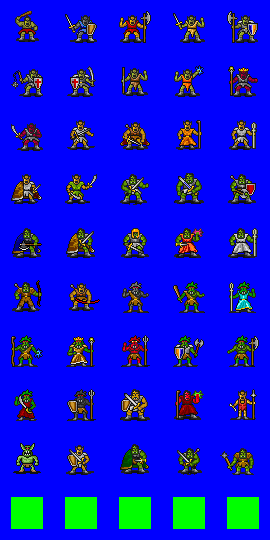
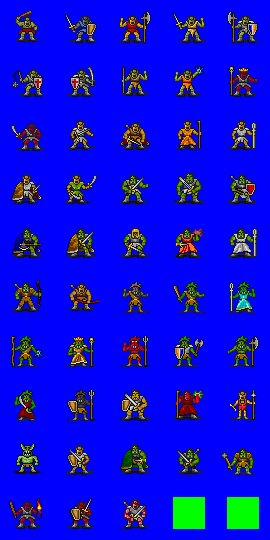
Still working on dungeons

Changed region(s): [[0.4148, 0.9185, 0.563, 0.9778], [0.237, 0.9185, 0.3852, 0.9778], [0.0296, 0.9185, 0.1778, 0.9778]]

diff --git a/narrator/dungeonlevel.py b/narrator/dungeonlevel.py
@@ -27,7 +27,6 @@ class BasicCave( Plot ):
             biome=context.HAB_CAVE, setting=self.setting,
             desctags=(context.MAP_DUNGEON,context.MAP_GODOWN) )
         mymapgen = randmaps.CaveScene( myscene )
-#        mymapgen = randmaps.WalledForestScene( myscene )
         self.register_scene( nart, myscene, mymapgen, ident="LOCALE" )
 
         for t in range( random.randint(4+min(self.rank//3,6),8+min(self.rank//2,6)) ):
@@ -37,7 +36,7 @@ class BasicCave( Plot ):
 
 class WaterCave( BasicCave ):
     # First of the elemental caves.
-    LABEL = "DUNGEON_LEVEL"
+    LABEL = "zDUNGEON_LEVEL"
     TAGS = set( (context.HAB_CAVE,context.DES_WATER) )
     def custom_init( self, nart ):
         myscene = maps.Scene( min( 70 + self.rank * 5, 129 ), min( 70 + self.rank * 5, 129 ), 
@@ -53,9 +52,10 @@ class WaterCave( BasicCave ):
         return True
 
 class WaterBridgeCave( BasicCave ):
-    # First of the elemental caves.
-    LABEL = "DUNGEON_LEVEL"
+    LABEL = "zDUNGEON_LEVEL"
     TAGS = set( (context.HAB_CAVE,context.DES_WATER) )
+    UNIQUE = True
+    MIN_RANK = 2
     def custom_init( self, nart ):
         myscene = maps.Scene( 120, 120, 
             sprites={maps.SPRITE_WALL: "terrain_wall_cave.png", maps.SPRITE_GROUND: "terrain_ground_under.png", maps.SPRITE_FLOOR: "terrain_floor_gravel.png"},
@@ -65,7 +65,7 @@ class WaterBridgeCave( BasicCave ):
         self.register_scene( nart, myscene, mymapgen, ident="LOCALE" )
 
         self.add_sub_plot( nart, "DIVIDED_ISLAND_COMPLICATION" )
-        for t in range( random.randint(4+min(self.rank//3,6),8+min(self.rank//2,6)) ):
+        for t in range( random.randint(7,12) ):
             self.add_sub_plot( nart, "ENCOUNTER" )
 
         return True
@@ -85,6 +85,26 @@ class FireCave( BasicCave ):
             self.add_sub_plot( nart, "ENCOUNTER" )
 
         return True
+
+class FireBridgeCave( BasicCave ):
+    LABEL = "DUNGEON_LEVEL"
+    TAGS = set( (context.HAB_CAVE,context.DES_FIRE) )
+    #UNIQUE = True
+    MIN_RANK = 2
+    def custom_init( self, nart ):
+        myscene = maps.Scene( 120, 120, 
+            sprites={maps.SPRITE_WALL: "terrain_wall_cave.png", maps.SPRITE_GROUND: "terrain_ground_cthonic.png", maps.SPRITE_FLOOR: "terrain_floor_gravel.png"},
+            biome=context.HAB_CAVE, setting=self.setting,
+            desctags=(context.MAP_DUNGEON,context.MAP_GODOWN,context.DES_FIRE) )
+        mymapgen = randmaps.DividedIslandScene( myscene )
+        self.register_scene( nart, myscene, mymapgen, ident="LOCALE" )
+
+        self.add_sub_plot( nart, "DIVIDED_ISLAND_COMPLICATION" )
+        for t in range( random.randint(7,12) ):
+            self.add_sub_plot( nart, "ENCOUNTER" )
+
+        return True
+
 
 class AirCave( BasicCave ):
     LABEL = "zDUNGEON_LEVEL"
@@ -109,7 +129,7 @@ class EarthCave( BasicCave ):
         myscene = maps.Scene( min( 70 + self.rank * 5, 129 ), min( 70 + self.rank * 5, 129 ), 
             sprites={maps.SPRITE_WALL: "terrain_wall_cave.png", maps.SPRITE_GROUND: "terrain_ground_under.png", maps.SPRITE_FLOOR: "terrain_floor_gravel.png"},
             biome=context.HAB_CAVE, setting=self.setting,
-            desctags=(context.MAP_DUNGEON,context.MAP_GODOWN,context.DES_FIRE) )
+            desctags=(context.MAP_DUNGEON,context.MAP_GODOWN,context.DES_EARTH) )
         mymapgen = randmaps.CaveScene( myscene, decorate = randmaps.decor.RockyDec() )
         self.register_scene( nart, myscene, mymapgen, ident="LOCALE" )
 
@@ -118,15 +138,34 @@ class EarthCave( BasicCave ):
 
         return True
 
+class EarthMushroomCave( BasicCave ):
+    LABEL = "zDUNGEON_LEVEL"
+    TAGS = set( (context.HAB_CAVE,context.DES_EARTH) )
+    UNIQUE = True
+    MIN_RANK = 2
+    def custom_init( self, nart ):
+        myscene = maps.Scene( min( 90 + self.rank * 3, 129 ), min( 90 + self.rank * 3, 129 ), 
+            sprites={maps.SPRITE_WALL: "terrain_wall_cave.png", maps.SPRITE_GROUND: "terrain_ground_under.png", maps.SPRITE_FLOOR: "terrain_floor_gravel.png"},
+            biome=context.HAB_CAVE, setting=self.setting,
+            desctags=(context.MAP_DUNGEON,context.MAP_GODOWN,context.DES_EARTH,context.MTY_PLANT) )
+        mymapgen = randmaps.WalledForestScene( myscene, decorate = randmaps.decor.RockyDec() )
+        self.register_scene( nart, myscene, mymapgen, ident="LOCALE" )
+
+        for t in range( random.randint(4+min(self.rank//3,6),8+min(self.rank//2,6)) ):
+            self.add_sub_plot( nart, "ENCOUNTER" )
+
+        return True
+
+
 class GoblinMines( BasicCave ):
     LABEL = "zDUNGEON_LEVEL"
     TAGS = set( (context.HAB_CAVE,context.GEN_GOBLIN) )
     def custom_init( self, nart ):
         myscene = maps.Scene( min( 70 + self.rank * 5, 129 ), min( 70 + self.rank * 5, 129 ), 
-            sprites={maps.SPRITE_WALL: "terrain_wall_mine.png", maps.SPRITE_GROUND: "terrain_ground_canyon.png", maps.SPRITE_FLOOR: "terrain_floor_stone.png"},
+            sprites={maps.SPRITE_WALL: "terrain_wall_cave.png", maps.SPRITE_GROUND: "terrain_ground_under.png", maps.SPRITE_FLOOR: "terrain_floor_gravel.png"},
             biome=context.HAB_CAVE, setting=self.setting,
             desctags=(context.MAP_DUNGEON,context.MAP_GODOWN,context.GEN_GOBLIN) )
-        mymapgen = randmaps.CaveScene( myscene )
+        mymapgen = randmaps.CaveScene( myscene, decorate = randmaps.decor.GoblinHomeDec(fill_factor=200) )
         self.register_scene( nart, myscene, mymapgen, ident="LOCALE" )
 
         for t in range( random.randint(4+min(self.rank//3,6),8+min(self.rank//2,6)) ):

diff --git a/narrator/dungeonbits.py b/narrator/dungeonbits.py
@@ -19,8 +19,9 @@ import randmaps
 # a locked door, or wotnot.
 #
 
-class DIC_LockedDoor( Plot ):
+class DIC_Barricade( Plot ):
     LABEL = "DIVIDED_ISLAND_COMPLICATION"
+    UNIQUE = True
     active = True
     scope = "LOCALE"
     @classmethod
@@ -31,12 +32,14 @@ class DIC_LockedDoor( Plot ):
         scene = self.elements.get("LOCALE")
         mygen = nart.get_map_generator( scene )
 
+        # Bridge room
         bridge_room = randmaps.rooms.BottleneckRoom()
         self._bridge_door = waypoints.PuzzleDoor()
         bridge_room.special_c[ "door" ] = self._bridge_door
         mygen.special_c[ "bridge" ] = bridge_room
         self.register_element( "_BRIDGE_ROOM", bridge_room, dident="LOCALE" )
 
+        # Lever room
         lever_room = randmaps.rooms.SharpRoom( tags = (context.ENTRANCE,) )
         lever_room.contents.append( teams.Team(default_reaction=-999, rank=self.rank, 
           strength=150, habitat=scene.get_encounter_request() ) )
@@ -45,12 +48,55 @@ class DIC_LockedDoor( Plot ):
         lever = waypoints.PuzzleSwitch()
         self.register_element( "_LEVER", lever, dident="_LEVER_ROOM" )
 
+        # Post-bridge encounter
+        room = mygen.DEFAULT_ROOM()
+        mygen.special_c[ "after_bridge" ] = room
+        myhabitat=scene.get_encounter_request()
+        myhabitat[ context.MTY_HUMANOID ] = context.PRESENT
+        myhabitat[ context.MTY_FIGHTER ] = context.MAYBE
+        room.contents.append( teams.Team(default_reaction=-999, rank=self.rank, 
+          strength=150, habitat=myhabitat ) )
+        self.register_element( "_ROOM", room, dident="LOCALE" )
+
         return True
 
     def _LEVER_USE( self, explo ):
         self._bridge_door.activate( explo )
         self.active = False
 
+class DIC_YouShallNotPass( Plot ):
+    LABEL = "DIVIDED_ISLAND_COMPLICATION"
+    UNIQUE = True
+    active = True
+    scope = "LOCALE"
+    @classmethod
+    def matches( self, pstate ):
+        """Requires the LOCALE to exist."""
+        return pstate.elements.get("LOCALE")
+    def custom_init( self, nart ):
+        scene = self.elements.get("LOCALE")
+        mygen = nart.get_map_generator( scene )
+
+        # Bridge room
+        bridge_room = randmaps.rooms.FuzzyRoom()
+        mygen.special_c[ "bridge" ] = bridge_room
+        self.register_element( "_BRIDGE_ROOM", bridge_room, dident="LOCALE" )
+
+        myhabitat=scene.get_encounter_request()
+        myhabitat[ context.MTY_HUMANOID ] = context.PRESENT
+        myhabitat[ context.MTY_FIGHTER ] = context.MAYBE
+        team = teams.Team(default_reaction=-999, rank=self.rank, strength=120, habitat=myhabitat, respawn=False )
+
+        myhabitat[(context.MTY_HUMANOID,context.MTY_LEADER)] = True
+        myhabitat[context.MTY_LEADER] = context.MAYBE
+        btype = monsters.choose_monster_type(self.rank,self.rank+2,myhabitat)
+        boss = monsters.generate_boss( btype, self.rank+2 )
+        boss.team = team
+
+        bridge_room.contents.append( team )
+        bridge_room.contents.append( boss )
+
+        return True
 
 
 #  **************************
@@ -68,8 +114,11 @@ class GenericArmory( Plot ):
         scene = self.elements.get("LOCALE")
         mygen = nart.get_map_generator( scene )
         room = mygen.DEFAULT_ROOM()
+        myhabitat=scene.get_encounter_request()
+        myhabitat[ context.MTY_HUMANOID ] = context.PRESENT
+        myhabitat[ context.MTY_FIGHTER ] = context.MAYBE
         room.contents.append( teams.Team(default_reaction=-999, rank=self.rank+1, 
-          strength=120, habitat=scene.get_encounter_request() ) )
+          strength=120, habitat=myhabitat ) )
         room.contents.append( maps.WALL_WEAPON_RACK )
         room.contents.append( maps.WALL_WEAPON_RACK )
         for t in range( random.randint(2,4) ):

diff --git a/monsters/goblins.py b/monsters/goblins.py
@@ -10,6 +10,7 @@ import animobs
 import targetarea
 import aibrain
 import random
+import enchantments
 
 #  *******************
 #  ***   GOBLINS   ***
@@ -87,6 +88,34 @@ class GoblinShaman( base.Monster ):
         self.levels.append( base.Spellcaster( 3, self ) )
         if random.randint(1,10) == 1:
             self.contents.append( items.scrolls.Rank1Scroll() )
+
+class GoblinPyromaniac( base.Monster ):
+    name = "Goblin Pyromaniac"
+    statline = { stats.STRENGTH: 11, stats.TOUGHNESS: 8, stats.REFLEXES: 14, \
+        stats.INTELLIGENCE: 8, stats.PIETY: 8, stats.CHARISMA: 6,
+        stats.RESIST_FIRE: 300 }
+    SPRITENAME = "monster_goblins.png"
+    FRAME = 45
+    TEMPLATES = ()
+    MOVE_POINTS = 12
+    VOICE = dialogue.voice.ORCISH
+    GP_VALUE = 30
+    HABITAT = ( context.HAB_EVERY, context.SET_EVERY,
+     context.DES_FIRE,
+     context.MTY_HUMANOID, context.GEN_GOBLIN )
+    ENC_LEVEL = 4
+    ATTACK = items.Attack( (1,6,0), element = stats.RESIST_CRUSHING )
+    TECHNIQUES = ( invocations.Invocation( "Fire Bomb",
+        effects.OpposedRoll( att_skill=stats.PHYSICAL_ATTACK, att_stat=stats.REFLEXES, def_stat=stats.REFLEXES, att_modifier=-25, on_success = (
+            effects.HealthDamage( (1,6,0), stat_bonus=None, element=stats.RESIST_FIRE, anim=animobs.OrangeExplosion ),
+            effects.Enchant( enchantments.BurnLowEn )
+        ,), on_failure = (
+            effects.HealthDamage( (1,6,0), stat_bonus=None, element=stats.RESIST_FIRE, anim=animobs.OrangeExplosion )
+        ,) ),
+        com_tar=targetarea.Blast(radius=1,reach=6), shot_anim=animobs.Fireball, ai_tar=invocations.vs_enemy ), )
+    def init_monster( self ):
+        self.levels.append( base.Humanoid( 3, self ) )
+
 
 class GoblinWarrior( base.Monster ):
     name = "Goblin Warrior"

diff --git a/randmaps/decor.py b/randmaps/decor.py
@@ -135,5 +135,7 @@ class RockyDec( object ):
                 # This is a good space. Add some decor.
                 gb.map[x][y].decor = random.choice(self.FLOOR_DECOR)
 
+class GoblinHomeDec( RockyDec ):
+    FLOOR_DECOR = ( maps.PUDDLE, maps.BONE, maps.KEG, maps.PILED_GOODS )
 
 
